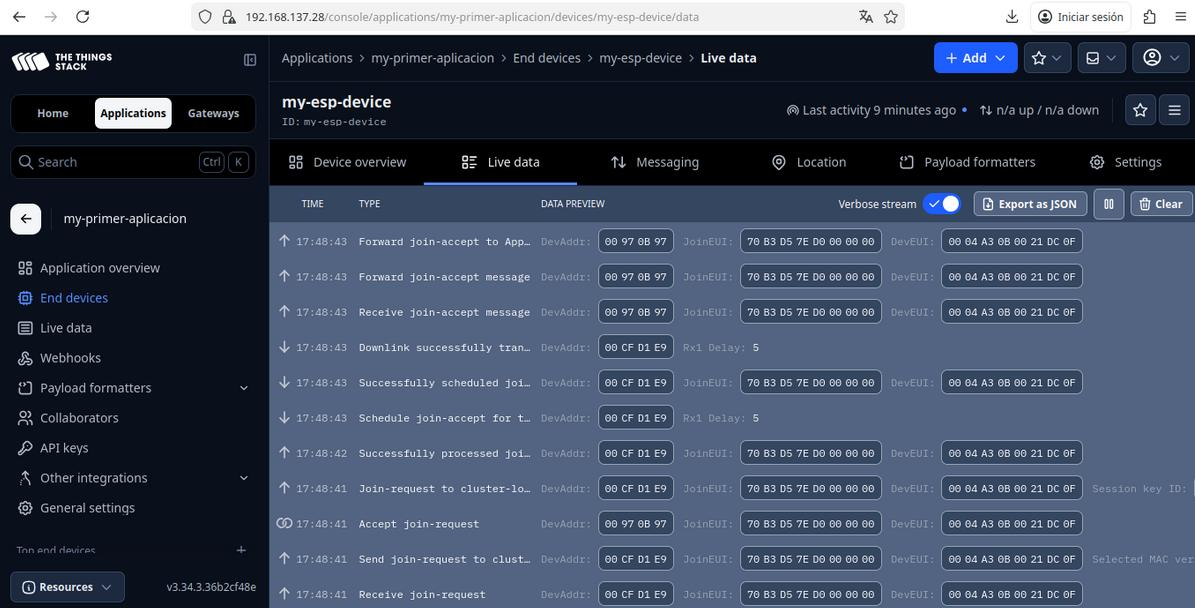
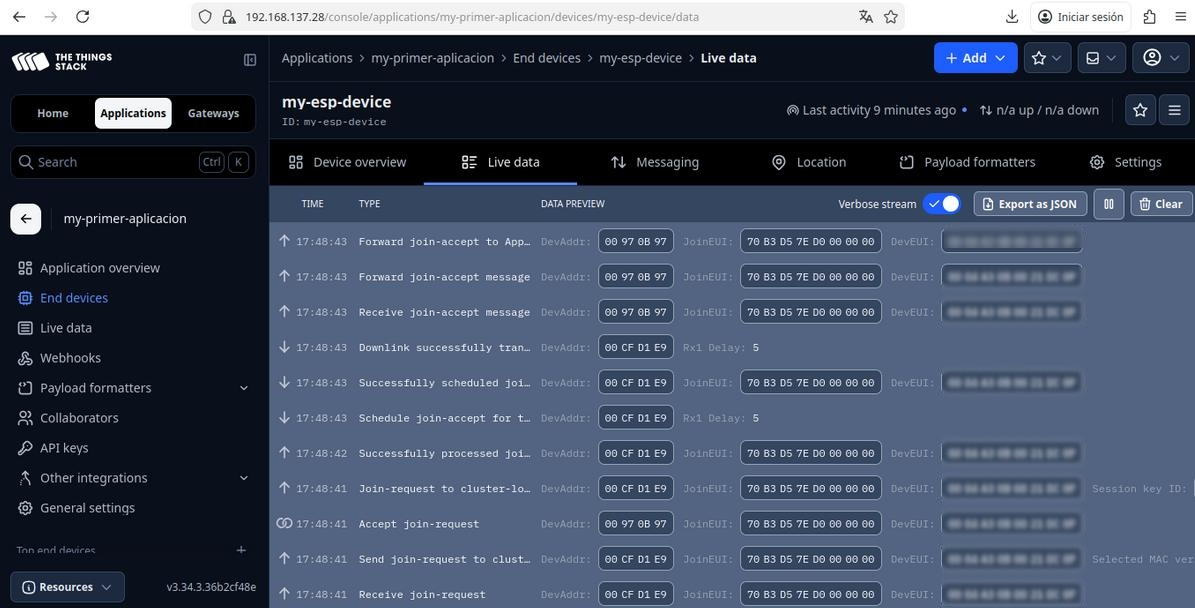
oculto el DevEUI

diff --git a/ESSA_IoT_ESP32/README.md b/ESSA_IoT_ESP32/README.md
@@ -9,7 +9,7 @@ Darle cualquier nonbre y crearla.
 Ir a register end device, seleccionar `"Enter end device specifics manually"`, elegir el plan de frecuencia **"AU915-928 FSB 2"**.  
 El firmware del equipo tiene la versión 1.0.5 para lorawan, asique en el server TTN hay que selccionar **"LoRaWAN version 1.0.2" y "RP001 ... revision B"**.\
 En `"JoinEUI"` poner un valor cualquiera como por ejemplo: "70B3D57ED0000000".\
-En `"DevEUI"` poner el código que corresponde al nodo (cada equipo tiene su propio DevEUI). En el esp que se probó el valor es **0004A30B0021DC0F**.\
+En `"DevEUI"` poner el código que corresponde al nodo (cada equipo tiene su propio DevEUI). En el esp que se probó el valor es **0004A30B00######**.\
 Generar una `"APPKey"` desde la propia página de TTN, guardar estos tres códigos porque los vamos a necesitar en el programa que compilemos con Arduino IDE.\
 Darle un nombre cualquiera (respetando el formato de TTN) y darle a `"Register end device"`.
 Con esto el nodo ya estáregistrado, ahora solo falta compilar el código en el ESP32 para que comience a comunicarse con el gateway.
